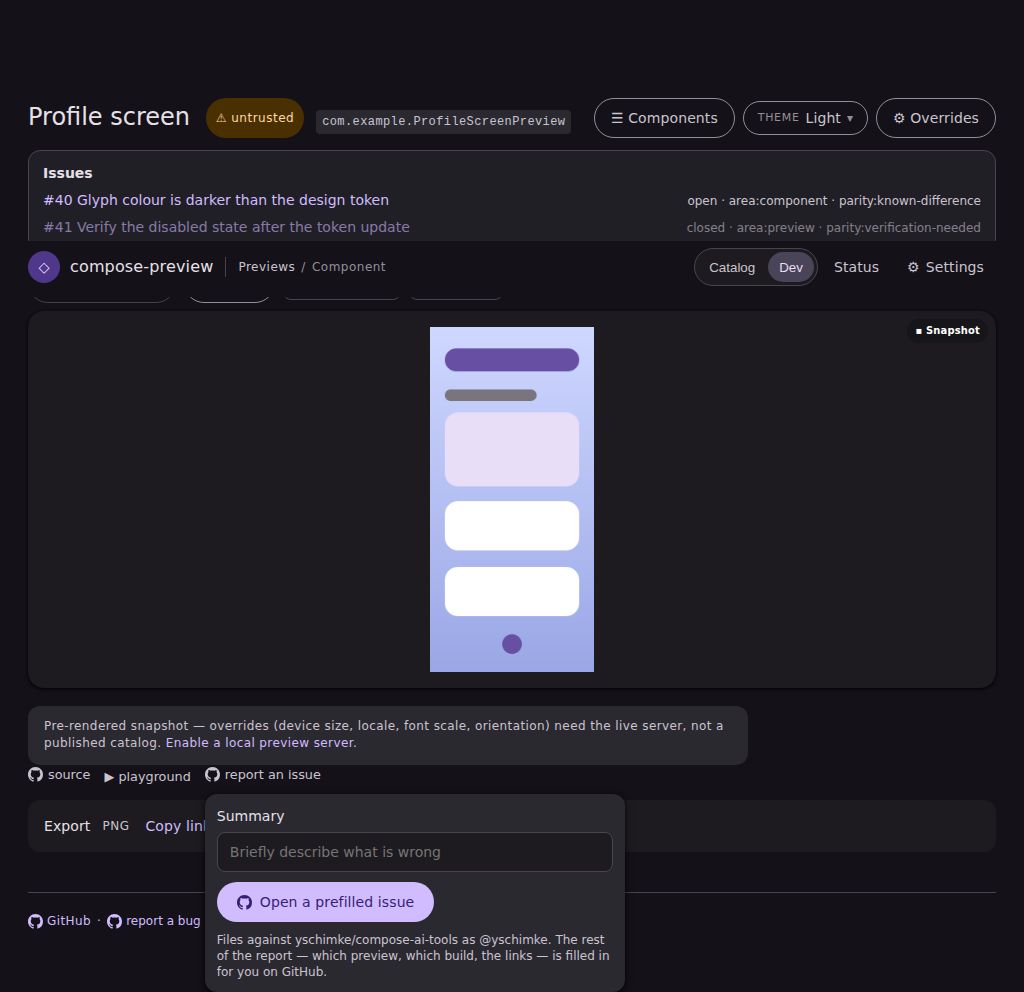
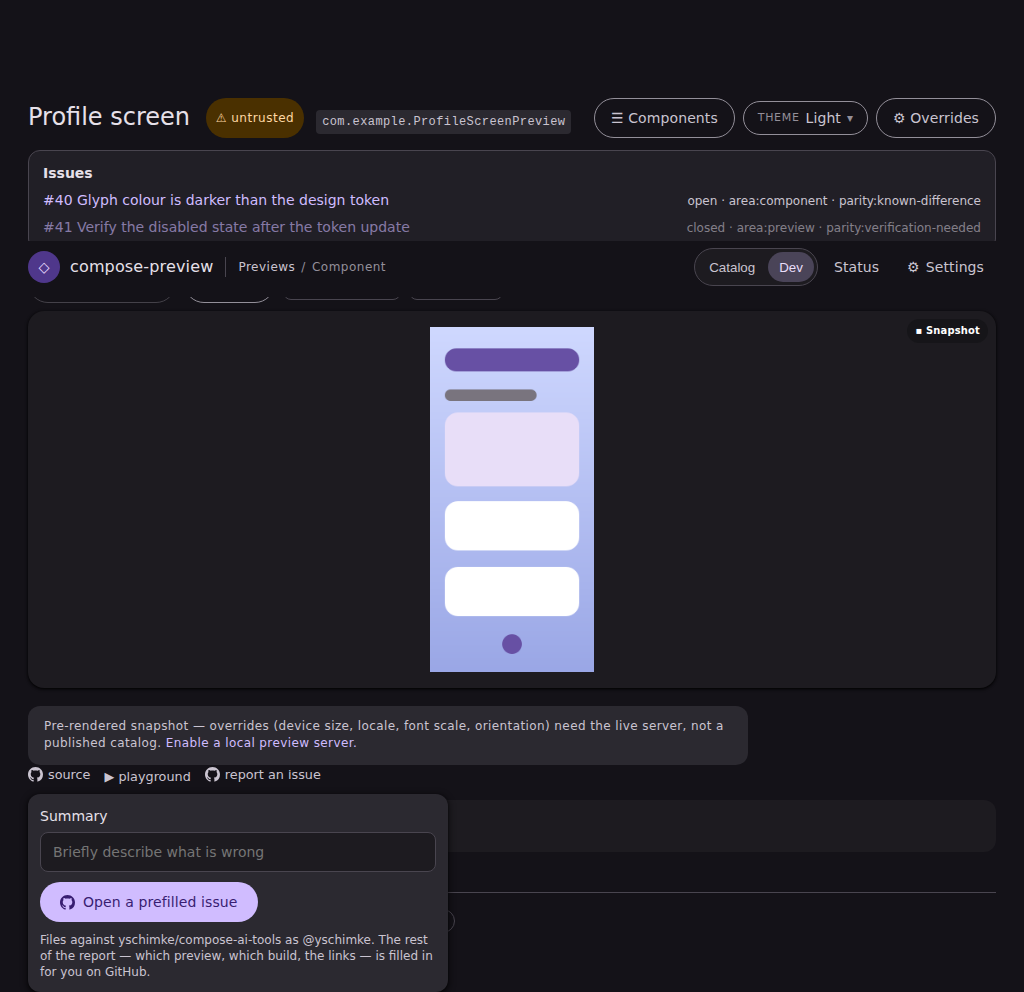
fix(serve): anchor the report panel to the row at every width
The narrow-viewport fix used a 640px media query, which was a guess
fitted to the one fixture that existed. It doesn't hold: the report
toggle is the last-but-one entry in a row whose earlier entries are all
optional, so every link a session happens to have shifts it right.

A live viewer with an executable bundle carries four links before the
toggle. Measured on the `serve-viewer` fixture with that link injected:
the panel sat at x=420 and was clipped by up to 160px between 680 and
820px — above the media query, so the fix didn't reach it. `html {
overflow-x: clip }` means clipped rather than scrollable, so the Summary
field was simply unreachable, with no scrollbar to hint at it.

Anchoring to `.cp-preview-links` at every width, rather than only below
640px, makes the panel's position independent of how many links precede
it. The media query goes away entirely. Verified across 320–1600px on
all three fixtures that carry the affordance, with and without the
bundle link: 78 combinations, panel inside the viewport and 29–30px
below its toggle in every one.

Still scoped to the row, so the focused comparison keeps `position:
relative` — the only containing block its panel has.

The desktop panel now opens at the row's left edge rather than under the
toggle; the committed captures are updated to match. New
`report-open-bundle` state at 760x800 covers the bundle-enabled row,
which no fixture carries and nothing was shooting. It asserts the
[…]

Changed region(s): [[0.0312, 0.8125, 0.5938, 1.0]]

diff --git a/cli/src/main/resources/ee/schimke/composeai/cli/serve/assets/serve.css b/cli/src/main/resources/ee/schimke/composeai/cli/serve/assets/serve.css
@@ -480,7 +480,7 @@ input, select, textarea, progress { accent-color: var(--md-sys-color-primary); }
 /* Per-preview GitHub links under the viewer title: source file, and "report an issue". One flex
    row so they read as a single line whether one or both are present. */
 .cp-preview-links { display: flex; flex-wrap: wrap; align-items: center; gap: 4px 14px;
-  margin: 0 0 8px; }
+  margin: 0 0 8px; position: relative; }
 .cp-source, .cp-report, .cp-figma { margin: 0; font-size: 0.8rem; }
 /* The report affordance is a disclosure whose panel holds a GET form (its action is the GitHub
    issue form, its body a hidden input) so no page state ever reaches a navigation sink — but its
@@ -496,6 +496,21 @@ input, select, textarea, progress { accent-color: var(--md-sys-color-primary); }
    floats rather than pushing the render down the page, and resets font-size because the provenance
    row it hangs from is 0.8rem and a form the reporter types into should not be. */
 .cp-report { position: relative; }
+/* …but in the provenance row the panel is anchored to the ROW, not to the toggle. A `max-width`
+   caps how wide a panel is and says nothing about where it starts, and this toggle's start moves:
+   it is the last-but-one entry in a row whose earlier entries are all optional, so every link a
+   session happens to have shifts it right. A live viewer with an executable bundle carries four
+   before it and pushed the panel to x=420 — clipped by up to 160px between 680 and 820px, and
+   `html { overflow-x: clip }` means clipped, not scrollable, so the Summary field was simply
+   unreachable. Anchoring to the row (which spans the full content width) makes the panel's
+   position independent of how many links precede it, so no future addition to this row can
+   reintroduce the bug at some width nobody thought to test.
+   Scoped to the row, because the focused comparison renders the same affordance with no
+   `.cp-preview-links` around it (see `ServeWeb.referenceComparisonPage`); there `.cp-report` stays
+   relative, which is the only containing block that panel has — making it static would resolve
+   `top: 100%` against the initial one and drop the panel 619px ABOVE its own toggle. Measured. */
+.cp-preview-links { position: relative; }
+.cp-preview-links .cp-report { position: static; }
 .cp-report-panel { position: absolute; left: 0; top: calc(100% + 6px); z-index: 50;
   width: max-content; max-width: min(420px, calc(100vw - 32px)); padding: 12px;
   border-radius: var(--md-sys-shape-corner-medium);
@@ -2565,27 +2580,6 @@ html.cp-bg-transparent .cp-viewer[data-mode="source"] .cp-stage { background: tr
      catalog calls its themes. */
   .cp-catalog-theme { position: static; }
   .cp-catalog-theme .cp-theme-menu-panel { left: 0; right: auto; }
-  /* The viewer's report panel has the same shape of problem, one row down and pointing the other
-     way. Its toggle is the THIRD entry in the provenance row (`source`, `playground`, then this),
-     and that row does not wrap until far below phone width — so the panel's containing block
-     starts ~190px inside the viewport while its cap only says how WIDE it may be. Measured on the
-     `serve-viewer` fixture at 360px: the panel ran from x=191 to x=519 and took the document's
-     scrollWidth with it, so the Summary field was half off screen and the whole page scrolled
-     sideways. Broken at every width up to ~636px, i.e. exactly this block's band.
-     Same remedy as the Theme panel above: hand the panel to the row, which spans the full content
-     width, so `left: 0` anchors it to the row's left edge instead of the toggle's. `top: 100%` is
-     then measured against the row — one line tall — so it still opens just under the link it
-     belongs to. The cap keeps the right edge on screen, so both ends are inside the viewport.
-     Scoped to the report INSIDE that row, because it is the row that makes this necessary and the
-     row that fixes it. The focused comparison renders the same affordance with no
-     `.cp-preview-links` around it (see `ServeWeb.referenceComparisonPage`), where the toggle
-     already sits at the content's left edge and the base rule keeps the panel on screen by
-     itself — and where making `.cp-report` static would take away the panel's only containing
-     block, resolving `top: 100%` against the initial one and dropping the panel 619px ABOVE its
-     own toggle. Measured, before this scoping was added. */
-  .cp-preview-links { position: relative; }
-  .cp-preview-links .cp-report { position: static; }
-  .cp-preview-links .cp-report-panel { left: 0; right: auto; max-width: calc(100vw - 32px); }
   /* The heading is the catalog's name and the bar three rows above it is already the catalog's
      name. Hidden rather than removed — `clip` keeps it in the accessibility tree, so the document
      still has its `<h1>` and the page still announces what it is. Only when the bar really is

diff --git a/renders/serve-report-title/README.md b/renders/serve-report-title/README.md
@@ -7,29 +7,49 @@ actually wrong. It now opens a small panel with a **required** Summary — the s
 footer's "report a bug" already makes since
 [#4153](https://github.com/yschimke/compose-ai-tools/pull/4153).
 
-Captured from the committed `serve-viewer` page fixture by the preview-harness
-(`npm --prefix vscode-extension run harness:snapshot`). The `report-open` state is a
-registered `FIXTURE_STATES` entry, so every later change to this panel is diffed
-automatically rather than needing a hand-taken screenshot.
+Captured from the committed page fixtures by the preview-harness
+(`npm --prefix vscode-extension run harness:snapshot`). Every state below is a registered
+`FIXTURE_STATES` entry, so later changes to this panel are diffed automatically rather than
+needing a hand-taken screenshot.
 
 | | light | dark |
 | --- | --- | --- |
 | before — one click, no questions asked | `viewer-report-before.light.png` | `viewer-report-before.dark.png` |
 | after — the panel that click now opens | `viewer-report-open-after.light.png` | `viewer-report-open-after.dark.png` |
 
-## On a phone
-
-The panel's first cut floated off the right of the screen at every width up to ~636px: its
-toggle is the third entry in the provenance row, that row does not wrap until far below phone
-width, and a `max-width` caps how wide a panel is while saying nothing about where it starts.
-Measured on this fixture at 360px, it ran from x=191 to x=519 and took the document's
-scrollWidth with it. The panel is now handed to the row, which spans the full content width,
-so it is anchored at both ends — the same remedy `.cp-catalog-theme` already uses for the
-landing's Theme menu.
-
-`viewer-report-open-mobile.light.png` / `viewer-report-open-mobile.dark.png`, captured at
-412x800 by the `report-open-mobile` harness state.
-
 The closed row is unchanged: "report an issue" still reads as a link beside "source" and
 "playground". What changed is what the click does — and the preview's identity is not lost,
 it moved to the `| Preview |` row of the issue body's "Which preview" table.
+
+## Where the panel is anchored, and why
+
+The panel hangs off the **row**, not off its own toggle. A `max-width` caps how wide a panel
+is and says nothing about where it starts, and this toggle's start moves: it is the
+last-but-one entry in a row whose earlier entries are all optional, so every link a session
+happens to have shifts it right. Two separate ways that bit:
+
+- With the panel anchored to the toggle, the row's ~190px offset at phone width ran the panel
+  from x=191 to x=519 on a 360px screen.
+- A live viewer with an **executable bundle** carries four links before the toggle, which
+  pushed the panel to x=420 — clipped by up to 160px between 680 and 820px. `html {
+  overflow-x: clip }` means clipped, not scrollable, so the Summary field was simply
+  unreachable with no scrollbar to hint at it.
+
+Anchoring to the row makes the panel's position independent of how many links precede it, so
+no future addition to this row can reintroduce the bug at some width nobody thought to test.
+Verified across 320–1600px on all three fixtures that carry the affordance, with and without
+the bundle link.
+
+The focused comparison renders the same affordance with no `.cp-preview-links` around it, so
+the rule is scoped to the row; there `.cp-report` stays relative, which is the only containing
+block that panel has.
+
+| state | what it locks | files |
+| --- | --- | --- |
+| `report-open-mobile` (412×800) | the phone layout | `viewer-report-open-mobile.*.png` |
+| `report-open-bundle` (760×800) | the bundle-enabled row, at the width it used to clip at | `viewer-report-open-bundle.*.png` |
+| comparison `report-open-mobile` (412×800) | the page with no provenance row, which had no coverage at all | `compare-report-open-mobile.*.png` |
+
+The last two assert the panel's geometry as well as shooting it: a panel clipped by
+`overflow-x: clip`, or one that flew 619px above its toggle, still screenshots as a
+plausible-looking page.
